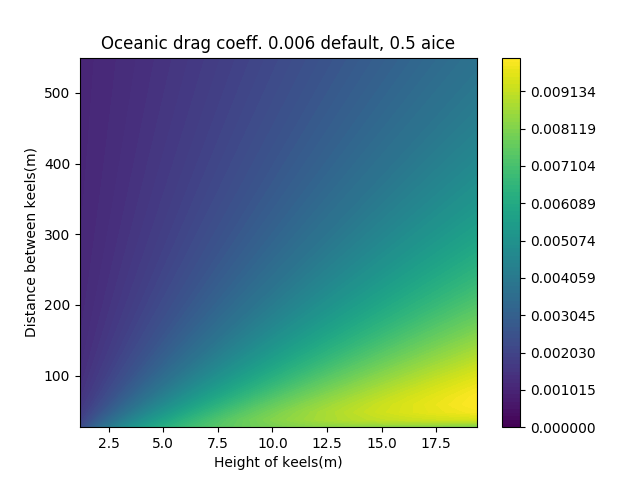
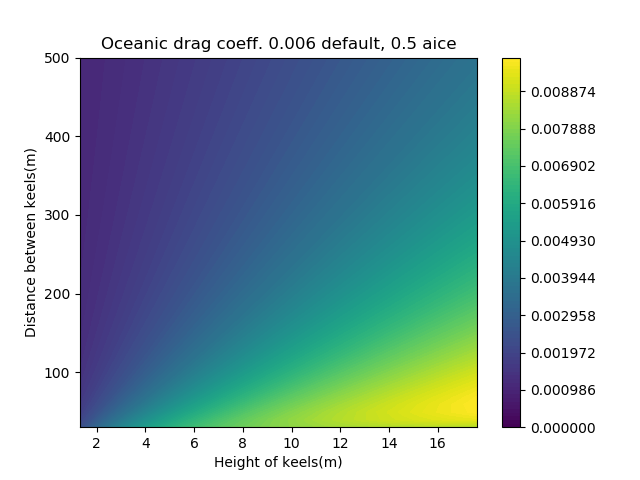
refractored with tests

diff --git a/toy_system.py b/toy_system.py
@@ -1,4 +1,5 @@
 import math
+from math import isclose
 import numpy as np
 import matplotlib.pyplot as plt
 from mpl_toolkits.mplot3d import Axes3D
@@ -104,11 +105,20 @@ class ice:
 
     #get compact form of stability
     def chi_fun(self, stability):
-        return (1 - 16*stability)**(0.25)
+        #STABILITY MAGNITUDE NEEDS TO BE LESS THAN TEN
+        print(stability)
+        assert abs(stability)<10, "error: STABILITY IS TOO BIG!"
+        chi = (1 - 16*stability)**(0.25) 
+        #chi needs to be >= 1.
+        print(chi)
+        assert chi>=1, "error: chi is too small"
+        return chi
 
     #get psi's (integrated flux profiles) from stability 
-    def psi_fun(self, stability, chi):
+    def psi_fun(self, stability):
+        assert abs(stability)<10, "error: STABILITY TOO BIG"
         if stability<0:
+            chi = self.chi_fun(stability)
             psi_m = 2*np.log(0.5*(1 + chi)) + np.log(0.5*(1 + chi**2)) - 2*np.arctan(chi) + (math.pi/2)
             psi_s = 2*np.log(0.5*(1 + chi**2)) 
         else:
@@ -124,8 +134,7 @@ class ice:
         c_l = c_d
         for i in range(5):
             stability = self.stability_fun(c_d,c_s,c_l)
-            chi = self.chi_fun(stability)
-            psi_m, psi_s = self.psi_fun(stability,chi)
+            psi_m, psi_s = self.psi_fun(stability)
             #now updating coefficients based on psi
             c_d = c_d/(1 + (c_d/kappa)*(my_lambda - psi_m))
             c_s = c_s/(1 + (c_s/kappa)*(my_lambda - psi_s))
@@ -179,43 +188,30 @@ class ice:
         self.C_d_atmosphere_default = '{:.2e}'.format(C_d_atmosphere)
         self.C_s_atmosphere_default = '{:.2e}'.format(C_s_atmosphere)
 
+        #making 3d mesh for plotting
+        self.x_s,self.y_s = np.meshgrid(self.H_s,self.D_s)
+        self.x_k,self.y_k = np.meshgrid(self.H_k,self.D_k)
+        
+        #making scalar fields for 3d plotting
+        #first momentum transfer coefficient
+        self.momentum_sail = self.C_dar_fun(self.x_s,self.y_s,self.z_0a) + self.C_das_fun(self.x_s,self.y_s)
+        self.momentum_keel = self.C_dwr_fun(self.x_k,self.y_k,self.z_0w) + self.C_dws_fun(self.x_k,self.y_k)
+        self.c_d_a, foo, bar = self.iterdrag(self.momentum_sail) 
+
+        #now heat transfer coefficient
+        #roughness length for heat transfer is 0.2* (source: UM documentation)
+        self.heat_sail = self.C_dar_fun(self.x_s,self.y_s,0.2*self.z_0a) + self.C_das_fun(self.x_s,self.y_s)
+        self.heat_keel = self.C_dwr_fun(self.x_k,self.y_k,0.2*self.z_0w) + self.C_dws_fun(self.x_k,self.y_k)
+        foo, self.c_s_a, bar = self.iterdrag(self.heat_sail) 
+ 
     def plot_3d(self):
         #function to plot 3d surface of dependence of drag coefficient on height of sails and distance between sails
-        
-        #making 3d mesh
-        x_s,y_s = np.meshgrid(self.H_s,self.D_s)
-        x_k,y_k = np.meshgrid(self.H_k,self.D_k)
-        
-        #calculating coefficients (form and skin)
-        totalsailform = self.C_dar_fun(x_s,y_s,self.z_0a)
-        totalkeelform = self.C_dwr_fun(x_k,y_k,self.z_0w)
-        totalsailskin = self.C_das_fun(x_s,y_s)
-        totalkeelskin = self.C_dws_fun(x_k,y_k)
-        totalkeel = totalkeelform + totalkeelskin
-        totalsail = totalsailform + totalsailskin
-
-        c_d_a, c_s_a, c_l_a = self.iterdrag(totalsail) 
-
-        #now for heat transfer, z_0 needs to be smaller (as detailed in um documentation part 8.6)
-        z_0a = self.z_0a*0.2
-        z_0w = self.z_0w*0.2
-        #iterating
-        totalsailform_heat = self.C_dar_fun(x_s,y_s,z_0a)
-        totalkeelform_heat = self.C_dwr_fun(x_k,y_k,z_0w)
-        totalsailskin_heat = self.C_das_fun(x_s,y_s)
-        totalkeelskin_heat = self.C_dws_fun(x_k,y_k)
-        totalkeel_heat = totalkeelform_heat + totalkeelskin_heat
-        totalsail_heat = totalsailform_heat + totalsailskin_heat
-        
-        foo, c_s_a, bar = self.iterdrag(totalsail_heat) 
-
-        ###PLOTTING ATMOSPHERIC MOMENTUM CO-EFF### 
         #printing min, max, default
         print("Atmospheric momentum:")
-        print("min {}\n max {}\n default {}".format(np.min(c_d_a),np.max(c_d_a),self.C_d_atmosphere_default))
-        cp = plt.contourf(x_s,y_s,c_d_a,levels=np.linspace(0,np.max(c_d_a),100))
+        print("min {}\n max {}\n default {}".format(np.min(self.c_d_a),np.max(self.c_d_a),self.C_d_atmosphere_default))
+        cp = plt.contourf(self.x_s,self.y_s,self.c_d_a,levels=np.linspace(0,np.max(self.c_d_a),100))
         plt.colorbar(cp)
-        cp.set_clim(0,np.max(c_d_a))
+        cp.set_clim(0,np.max(self.c_d_a))
         plt.xlabel("Height of sails(m)")
         plt.ylabel("Distance between sails(m)")
         plt.title("Atmospheric drag coeff. {} default. {} aice".format(self.C_d_atmosphere_default,A))
@@ -223,10 +219,10 @@ class ice:
         plt.close('all')
         
         ###PLOTTING OCEANIC MOMENTUM###
-        momentum_arg = totalkeel
+        momentum_arg = self.momentum_keel 
         print("Oceanic momentum:")
         print("min {}\n max {}\n default {}".format(np.min(momentum_arg),np.max(momentum_arg),0.006))
-        cp = plt.contourf(x_k,y_k,momentum_arg,levels=np.linspace(0,np.max(momentum_arg),100))
+        cp = plt.contourf(self.x_k,self.y_k,momentum_arg,levels=np.linspace(0,np.max(momentum_arg),100))
         plt.colorbar(cp)
         cp.set_clim(0,np.max(momentum_arg))
         plt.xlabel("Height of keels(m)")
@@ -236,10 +232,10 @@ class ice:
         plt.close('all')
 
         ###OCEANIC HEAT TRANSFER
-        heat_arg = totalkeel_heat
+        heat_arg = self.heat_keel 
         print("Oceanic heat:")
         print("min {}\n max {}\n default {}".format(np.min(heat_arg),np.max(heat_arg),0.006))
-        cp = plt.contourf(x_k,y_k,totalkeel,levels=np.linspace(0,np.max(heat_arg),100),cmap='inferno')
+        cp = plt.contourf(self.x_k,self.y_k,heat_arg,levels=np.linspace(0,np.max(heat_arg),100),cmap='inferno')
         plt.colorbar(cp)
         cp.set_clim(0,np.max(heat_arg))
         plt.xlabel("Height of keels(m)")
@@ -250,10 +246,10 @@ class ice:
         
         ###PLOTTING ATMOSPHERIC HEAT TRANSFER###
         print("Atmospheric heat:")
-        print("min {}\n max {}\n default {}".format(np.min(c_s_a),np.max(c_s_a),self.C_s_atmosphere_default))
-        cp = plt.contourf(x_s,y_s,c_s_a,levels=np.linspace(0,np.max(np.abs(c_s_a))),cmap='inferno')
+        print("min {}\n max {}\n default {}".format(np.min(self.c_s_a),np.max(self.c_s_a),self.C_s_atmosphere_default))
+        cp = plt.contourf(self.x_s,self.y_s,self.c_s_a,levels=np.linspace(0,np.max(np.abs(self.c_s_a))),cmap='inferno')
         plt.colorbar(cp)
-        cp.set_clim(0,np.max(c_s_a))
+        cp.set_clim(0,np.max(self.c_s_a))
         plt.xlabel("Height of sails(m)")
         plt.ylabel("Distance between sails(m)")
         plt.title("Atmospheric heat transfer coeff. {} default. {} aice".format(self.C_s_atmosphere_default,A))
@@ -268,8 +264,33 @@ class ice:
         print("specific humidity at z_0 is {}".format(self.h_s_z0))
         print("specific humidity at 10m is {}".format(self.h_s_10))
 
-my_H_s = np.linspace(0.3*0.9,4.0*1.1,50)  
-my_D_s = np.linspace(30.0*0.9,500.0*1.1,50)
-testice = ice(0.5,my_H_s,my_D_s,0.16e-3,0.0061,263.65)
+    def testfun(self):
+        #this function tests the calculated properties of the sea ice to check that they are realistic...
+        #basing these tests on expected values for these parameters as laid out in Tsamados paper (cited in report...)
+        print("Beginning tests.")
+        assert self.A>0, "ERROR. A>0 must hold. (There must be some ice)..."
+        assert np.min(self.H_s)>0,"ERROR. Sails must have a height..."
+        assert np.max(self.H_s)<5,"ERROR. Sails are too tall!"        
+        assert np.min(self.D_s)>20,"ERROR. Sails are too close together!"
+        assert np.max(self.D_s)<550,"ERROR. Sails are too far apart!"
+        assert 1e-5 < self.z_0a < 1e-2,"ERROR. Atmospheric roughness length is too large/small"
+        assert 1e-5 < self.z_0w < 1e-2,"ERROR. Oceanic roughness length is too large/small"
+        assert self.T_10<self.T_z0, "ERROR.. temperature should decrease with altitude. Chech T_10 and T_z0"
+        assert self.P_10<self.P_z0, "ERROR.. pressure should decrease with altitude"
+        assert self.P_z0>1.013e5, "ERROR. Pressure at rougnness length is too low. Should be >1e5 (ambient pressure is 101325"
+        #potential temperature literature vals taken from https://tinyurl.com/thetavals
+        assert 260<self.theta_z0<265, "ERROR. potential temperature at z_0 is not valid."
+        assert 260<self.theta_10<265, "ERROR. potential temperature at 10m is not valid."
+        #humidity calculator results given by http://www.humcal.com/index.php
+        assert isclose(1.83e-3,self.h_s_z0,abs_tol=0.05e-3), "ERROR. specific humidity at z0 is incorrect."
+        assert isclose(1.83e-3,self.h_s_10,abs_tol=0.05e-3), "ERROR. specific humidity at z0 is incorrect."
+        #atmospheric humidity decreases with altitude...
+        assert self.h_s_z0>self.h_s_10, "ERROR: humidity should decrease with altitude!"
+        print("All tests passed!")
+
+my_H_s = np.linspace(0.3,4.0,50)  
+my_D_s = np.linspace(30.0,500.0,50)
+testice = ice(A,my_H_s,my_D_s,0.16e-3,0.0061,263.65)
 testice.display()
+testice.testfun()
 testice.plot_3d()
